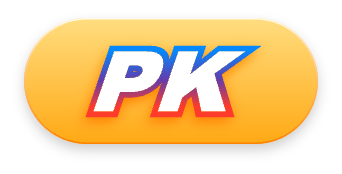
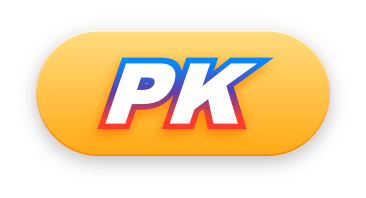
优化部分细节

Changed region(s): [[0.0585, 0.0862, 0.9357, 0.8333], [0.2339, 0.2586, 0.7602, 0.6897]]

diff --git a/src/pages/PK/pages/Home/PKCard.js b/src/pages/PK/pages/Home/PKCard.js
@@ -17,7 +17,6 @@ const PKCard = ({data = {}, copilot}) => {
     const jump = useJump();
     const dispatch = useDispatch();
     const [yellowTipVisible, setYellowTipVisible] = useState(false);
-    const [cardHeight, setCardHeight] = useState(0);
 
     const [[leftObj = {}, rightObj = {}], setCurObj] = useState([
         data?.list?.[0]?.[0] || {},
@@ -53,10 +52,6 @@ const PKCard = ({data = {}, copilot}) => {
         [data]
     );
 
-    const onCardLayoutHeight = useCallback((height) => {
-        setCardHeight((val) => (val > height ? val : height));
-    }, []);
-
     useFocusEffect(
         useCallback(() => {
             global.LogTool({event: 'rec_show', plateid: data.plateid, rec_json: data.rec_json});
@@ -78,19 +73,14 @@ const PKCard = ({data = {}, copilot}) => {
         <View style={styles.pkCard} activeOpacity={data?.is_enter_pk ? 0.8 : 1} {...copilot}>
             <View style={styles.swiperWrap}>
                 <Swiper
-                    height={cardHeight ? cardHeight : 'auto'}
+                    height={px(150)}
                     removeClippedSubviews={false}
                     loadMinimal={Platform.OS == 'ios' ? true : false}
                     showsPagination={false}
                     onIndexChanged={onIndexChanged}>
                     {data?.list?.map((item, idx) => (
                         <TouchableOpacity key={idx} activeOpacity={0.9} onPress={handlerEnter}>
-                            <CardItem
-                                leftObj={item[0]}
-                                rightObj={item[1]}
-                                height={cardHeight}
-                                onCardLayoutHeight={onCardLayoutHeight}
-                            />
+                            <CardItem leftObj={item[0]} rightObj={item[1]} />
                         </TouchableOpacity>
                     ))}
                 </Swiper>
@@ -150,8 +140,6 @@ const styles = StyleSheet.create({
         flex: 1,
         padding: px(16),
         paddingRight: px(36),
-        borderTopLeftRadius: px(6),
-        justifyContent: 'space-between',
     },
     pkInfoRight: {
         flex: 1,
@@ -164,10 +152,16 @@ const styles = StyleSheet.create({
         fontSize: px(14),
         color: '#fff',
         lineHeight: px(20),
-        flex: 1,
+        fontWeight: '500',
+    },
+    pkInfoCode: {
+        color: '#fff',
+        marginTop: 1,
+        fontSize: px(12),
+        lineHeight: px(17),
     },
     priceRate: {
-        marginTop: px(12),
+        marginTop: px(11),
         color: '#fff',
         lineHeight: px(28),
         fontWeight: '500',
@@ -178,14 +172,15 @@ const styles = StyleSheet.create({
         fontSize: px(11),
         color: 'rgba(255, 255, 255, 0.69)',
         lineHeight: px(15),
+        marginTop: 2,
     },
     pkIconStyle: {
-        width: px(98),
-        height: px(42),
+        width: px(122),
+        height: px(66),
         position: 'absolute',
         top: '50%',
         left: '50%',
-        transform: [{translateX: px(-49)}, {translateY: px(-21)}],
+        transform: [{translateX: px(-61)}, {translateY: px(-33)}],
     },
     pkIconStyle2: {
         width: px(82),
@@ -247,7 +242,7 @@ const styles = StyleSheet.create({
     tagsWrap: {
         flexDirection: 'row',
         alignItems: 'center',
-        marginTop: px(8),
+        marginTop: px(11),
     },
     tag: {
         borderRadius: px(2),
@@ -260,11 +255,7 @@ const styles = StyleSheet.create({
         lineHeight: px(14),
         color: '#EA5245',
     },
-    titleWrap: {
-        flexDirection: 'row',
-        alignItems: 'flex-start',
-        justifyContent: 'flex-end',
-    },
+    titleWrap: {},
     followWrap: {
         borderRadius: px(2),
         borderWidth: 1,
@@ -299,68 +290,50 @@ const styles = StyleSheet.create({
 });
 export default PKCard;
 
-const CardItem = ({leftObj = {}, rightObj = {}, height, onCardLayoutHeight}) => {
+const CardItem = ({leftObj = {}, rightObj = {}, height}) => {
     return (
-        <ImageBackground
-            source={pkCardBg}
-            resizeMode="stretch"
-            style={[styles.pkInfo, height ? {height} : {}]}
-            onLayout={(e) => {
-                onCardLayoutHeight(e.nativeEvent.layout.height);
-            }}>
+        <ImageBackground source={pkCardBg} resizeMode="stretch" style={[styles.pkInfo, height ? {height} : {}]}>
             <View style={styles.pkInfoLeft}>
-                <View style={styles.titleWrap}>
-                    <Text style={styles.pkInfoName}>
-                        {leftObj.favor ? (
-                            <Text>&nbsp;&nbsp;&nbsp;&nbsp;&nbsp;&nbsp;&nbsp;&nbsp;&nbsp;&nbsp;&nbsp;&nbsp;&nbsp;</Text>
-                        ) : null}
-                        {leftObj.name}
-                    </Text>
-                    {leftObj.favor ? (
+                <Text numberOfLines={1} style={styles.pkInfoName}>
+                    {leftObj.name}
+                </Text>
+                <Text numberOfLines={1} style={styles.pkInfoCode}>
+                    {leftObj.code}
+                </Text>
+                {/* {leftObj.favor ? (
                         <View style={styles.followWrap}>
                             <Text style={styles.followText}>已关注</Text>
                         </View>
-                    ) : null}
+                    ) : null} */}
+                <View style={styles.tagsWrap}>
+                    {leftObj?.tags?.map((item, idx) => (
+                        <View style={[styles.tag, {marginLeft: px(idx > 0 ? 8 : 0)}]} key={idx}>
+                            <Text style={styles.tagText}>{item}</Text>
+                        </View>
+                    ))}
                 </View>
-                <View>
-                    <View style={styles.tagsWrap}>
-                        {leftObj?.tags?.map((item, idx) => (
-                            <View style={[styles.tag, {marginLeft: px(idx > 0 ? 8 : 0)}]} key={idx}>
-                                <Text style={styles.tagText}>{item}</Text>
-                            </View>
-                        ))}
-                    </View>
-                    <Text style={styles.priceRate}>{leftObj?.yield?.ratio}</Text>
-                    <Text style={styles.priceDesc}>{leftObj?.yield?.title}</Text>
-                </View>
+                <Text style={styles.priceRate}>{leftObj?.yield?.ratio}</Text>
+                <Text style={styles.priceDesc}>{leftObj?.yield?.title}</Text>
             </View>
             <View style={styles.pkInfoRight}>
-                <View style={styles.titleWrap}>
-                    {rightObj.favor ? (
+                {/* {rightObj.favor ? (
                         <View style={[styles.followWrap, {position: 'relative', marginRight: px(6)}]}>
                             <Text style={styles.followText}>已关注</Text>
                         </View>
-                    ) : null}
-                    <Text
-                        style={[
-                            styles.pkInfoName,
-                            {textAlign: 'right'},
-                            rightObj.favor ? {flex: 0, maxWidth: px(100)} : {},
-                        ]}>
-                        {rightObj.name}
-                    </Text>
+                    ) : null} */}
+                <Text numberOfLines={1} style={[styles.pkInfoName, {textAlign: 'right'}]}>
+                    {rightObj.name}
+                </Text>
+                <Text style={[styles.pkInfoCode, {textAlign: 'right'}]}>{rightObj.code}</Text>
+                <View style={[styles.tagsWrap, {alignSelf: 'flex-end'}]}>
+                    {rightObj?.tags?.map((item, idx) => (
+                        <View style={[styles.tag, {marginLeft: px(idx > 0 ? 8 : 0)}]} key={idx}>
+                            <Text style={[styles.tagText, {color: '#1A4DE6'}]}>{item}</Text>
+                        </View>
+                    ))}
                 </View>
-                <View>
-                    <View style={[styles.tagsWrap, {alignSelf: 'flex-end'}]}>
-                        {rightObj?.tags?.map((item, idx) => (
-                            <View style={[styles.tag, {marginLeft: px(idx > 0 ? 8 : 0)}]} key={idx}>
-                                <Text style={[styles.tagText, {color: '#1A4DE6'}]}>{item}</Text>
-                            </View>
-                        ))}
-                    </View>
-                    <Text style={[styles.priceRate, {textAlign: 'right'}]}>{rightObj?.yield?.ratio}</Text>
-                    <Text style={[styles.priceDesc, {textAlign: 'right'}]}>{rightObj?.yield?.title}</Text>
-                </View>
+                <Text style={[styles.priceRate, {textAlign: 'right'}]}>{rightObj?.yield?.ratio}</Text>
+                <Text style={[styles.priceDesc, {textAlign: 'right'}]}>{rightObj?.yield?.title}</Text>
             </View>
             <FastImage source={pkIcon2} style={styles.pkIconStyle} />
         </ImageBackground>

diff --git a/src/pages/Trade/TradeRecord.js b/src/pages/Trade/TradeRecord.js
@@ -30,7 +30,7 @@ const TradeRecord = ({route, navigation}) => {
     const jump = useJump();
     const isMfb = fr == 'mfb';
     const scrollTab = useRef();
-    const tradeType = useRef([0, -1, -2, -35, 6, 4, 7]);
+    const tradeType = useRef([0, -35, 4, -2, -1, 6, 7]);
     const mfbType = useRef([0, 1, 2]);
     const getData = useCallback(
         (_page, toast) => {
@@ -67,7 +67,7 @@ const TradeRecord = ({route, navigation}) => {
     );
     useEffect(() => {
         if (fund_code) {
-            tradeType.current = [0, -2, -35, 4, 7];
+            tradeType.current = [0, -35, 4, -2, 7];
         }
     }, []);
     useEffect(() => {
@@ -298,25 +298,25 @@ const TradeRecord = ({route, navigation}) => {
                     <View tabLabel="全部" style={styles.container}>
                         {renderContent()}
                     </View>
+                    <View tabLabel="申购" style={styles.container}>
+                        {renderContent()}
+                    </View>
+                    <View tabLabel="赎回" style={styles.container}>
+                        {renderContent()}
+                    </View>
+                    <View tabLabel="升级" style={styles.container}>
+                        {renderContent()}
+                    </View>
                     {!fund_code ? (
                         <View tabLabel="投顾服务" style={styles.container}>
                             {renderContent()}
                         </View>
                     ) : null}
-                    <View tabLabel="升级" style={styles.container}>
-                        {renderContent()}
-                    </View>
-                    <View tabLabel="申购" style={styles.container}>
-                        {renderContent()}
-                    </View>
                     {!fund_code ? (
                         <View tabLabel={adjust_name || '调仓'} style={styles.container}>
                             {renderContent()}
                         </View>
                     ) : null}
-                    <View tabLabel="赎回" style={styles.container}>
-                        {renderContent()}
-                    </View>
                     <View tabLabel="分红" style={styles.container}>
                         {renderContent()}
                     </View>
